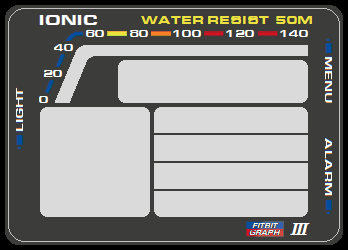
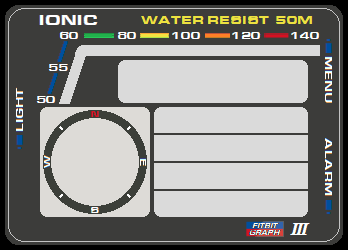
Completed HeartRate Monitor and WIP Compass

Changed region(s): [[0.0862, 0.112, 0.9195, 0.42], [0.1149, 0.42, 0.431, 0.868]]

diff --git a/app/index.js b/app/index.js
@@ -3,10 +3,15 @@ import clock from "clock";
 import document from "document";
 import * as fs from "fs";
 import * as messaging from "messaging";
-import { preferences } from "user-settings";
+import { preferences,units } from "user-settings";
 import * as util from "../common/utils";
-import { today, goals } from "user-activity";
-import { units } from "user-settings";
+//import * as gpscompass from "../common/gpscompass";
+import { today } from "user-activity";
+import { HeartRateSensor } from "heart-rate";
+import { display } from "display";
+import { location } from "geolocation";
+import { BodyPresenceSensor } from "body-presence";
+import { geolocation } from "geolocation";
 
 const SETTINGS_TYPE = "cbor";
 const SETTINGS_FILE = "settings.cbor";
@@ -20,11 +25,11 @@ let mySteps2 = document.getElementById("mySteps2");
 let mySteps3 = document.getElementById("mySteps3");
 let mySteps4 = document.getElementById("mySteps4");
 let mySteps5 = document.getElementById("mySteps5");
-let myMinutes1 = document.getElementById("myMinutes1");
-let myMinutes2 = document.getElementById("myMinutes2");
-let myMinutes3 = document.getElementById("myMinutes3");
-let myMinutes4 = document.getElementById("myMinutes4");
-let myMinutes5 = document.getElementById("myMinutes5");
+let myCalories1 = document.getElementById("myCalories1");
+let myCalories2 = document.getElementById("myCalories2");
+let myCalories3 = document.getElementById("myCalories3");
+let myCalories4 = document.getElementById("myCalories4");
+let myCalories5 = document.getElementById("myCalories5");
 let myDistance1 = document.getElementById("myDistance1");
 let myDistance2 = document.getElementById("myDistance2");
 let myDistance3 = document.getElementById("myDistance3");
@@ -51,16 +56,52 @@ let date2 = document.getElementById("date2");
 let month1 = document.getElementById("month1");
 let month2 = document.getElementById("month2");
 
+// COMPASS
+let coords = [];
+let compass = document.getElementById("compass");
+let compass1 = document.getElementById("compass1");
+let compass2 = document.getElementById("compass2");
+let compass3 = document.getElementById("compass3");
+
+// HEART RATE MONITOR
+if (HeartRateSensor) {
+  const hrm = new HeartRateSensor({ frequency: 1 });
+  const body = new BodyPresenceSensor();
+  hrm.addEventListener("reading", () => {
+      setHeartRate(hrm.heartRate);
+  });
+    display.addEventListener("change", () => {
+    // Automatically stop the sensor when the screen is off to conserve battery
+    display.on ? ( hrm.start() ) : ( setHeartRate(50), hrm.stop(), document.getElementById("bpm50").style.display = "none" );
+  });
+  body.addEventListener("reading", () => {
+    body.present ? ( hrm.start() ) : setHeartRate(50), hrm.stop(), document.getElementById("bpm50").style.display = "none";
+    //body.present ? console.log("On") : console.log("Off");
+  });
+  body.start();
+  hrm.start();
+}
+
 clock.granularity = "seconds";
 
 clock.ontick = evt => {
   let d = evt.date;
 
+  // COMPASS
+  if(d.getSeconds() % 10 === 1){
+    //console.log('test');
+    setCompass(coords);
+    //coords.push({latitude:5,longitude:6});
+    //console.log(JSON.stringify(coords));
+ 
+  }
+
+  
   // SENSORS 
-  //getActiveMinutes();
   getDistance();
   getSteps();
-  
+  getCalories();
+
   // DATE
   setDate(d.getDate());
   
@@ -111,14 +152,26 @@ function applyTheme(background, foreground) {
   settings.foreground = foreground;
 }
 
+function getCalories() {
+  if (me.permissions.granted("access_activity")) {
+    let calories = today.adjusted.calories || 0;
+    calories = util.zero5Pad(calories);
+  }else{
+    let calories = "00000";
+  }
+  drawDigit(calories.toString().substring(0,1), myCalories1);
+  drawDigit(calories.toString().substring(1,2), myCalories2);
+  drawDigit(calories.toString().substring(2,3), myCalories3);
+  drawDigit(calories.toString().substring(3,4), myCalories4);
+  drawDigit(calories.toString().substring(4,5), myCalories5);
+}
+
 function getSteps() {
   if (me.permissions.granted("access_activity")) {
     let steps = today.adjusted.steps || 0;
     steps = util.zero5Pad(steps);
-    //console.log(`${steps} Steps`);
   }else{
     let steps = "00000";
-    //console.log(`${steps} Steps`);
   }
   drawDigit(steps.toString().substring(0,1), mySteps1);
   drawDigit(steps.toString().substring(1,2), mySteps2);
@@ -152,6 +205,57 @@ function setSeparator(val) {
   separator.style.display = (val % 2 === 0 ? "inline" : "none");
 }
 
+// Converts from degrees to radians.
+function toRadians(degrees) {
+  return degrees * Math.PI / 180;
+};
+ 
+// Converts from radians to degrees.
+function toDegrees(radians) {
+  return radians * 180 / Math.PI;
+}
+
+
+function bearing(startLat, startLng, destLat, destLng){
+  startLat = toRadians(startLat);
+  startLng = toRadians(startLng);
+  destLat = toRadians(destLat);
+  destLng = toRadians(destLng);
+  let y = Math.sin(destLng - startLng) * Math.cos(destLat);
+  let x = Math.cos(startLat) * Math.sin(destLat) - Math.sin(startLat) * Math.cos(destLat) * Math.cos(destLng - startLng);
+  let brng = Math.atan2(y, x);
+  brng = toDegrees(brng);
+  return (brng + 360) % 360;
+}
+
+async function setCompass(coords) {
+
+  let position1 = new Promise((resolve, reject) => {
+    setTimeout(() => geolocation.getCurrentPosition(resolve, reject), 1000)
+  });
+  let position2 = new Promise((resolve, reject) => {
+    setTimeout(() => geolocation.getCurrentPosition(resolve, reject), 6000)
+  });
+
+  let result1 = await position1; // wait until the promise resolves (*)
+  //let result2 = await position2; // wait until the promise resolves (*)
+  //console.log(result1.coords.longitude); // "done!"
+  //let brng = bearing(result1.coords.latitude,result1.coords.longitude,result2.coords.latitude,result2.coords.longitude); // "done!"
+  
+  let latitude = result1.coords.latitude;
+  let longitude = result1.coords.longitude;
+  coords.push({latitude:latitude,longitude:longitude});
+
+  //compass.groupTransform.rotate.angle = brng;
+    //brng = util.zero5Pad(brng);
+  //drawDigit(brng.toString().substring(2,3), compass1);
+  //drawDigit(brng.toString().substring(3,4), compass2);
+  //drawDigit(brng.toString().substring(4,5), compass3);
+
+  //resolve coords;
+}
+
+
 function setHours(val) {
   if (val > 9) {
     drawDigit(Math.floor(val / 10), hours1);
@@ -183,6 +287,16 @@ function setDate(val) {
 function setMonth(val) {
   drawDigit(Math.floor(val / 10), month1);
   drawDigit(Math.floor(val % 10), month2);
+}
+
+function setHeartRate(val){
+  let bpmid = 140;
+  val < 50 ? ( document.getElementById("bpmparent").style.display = "none" , val = 50 ):
+  document.getElementById("bpmparent").style.display = "inline";
+  while(bpmid >= 50 && val >= 50){
+    //console.log("calculating HR" + val);
+    bpmid > val ? ( document.getElementById("bpm" + bpmid).style.display = "none", bpmid-- ) : (document.getElementById("bpm" + bpmid).style.display = "inline" , bpmid-- );
+  }
 }
 
 function setDay(val) {

diff --git a/common/gpscompass.js b/common/gpscompass.js
@@ -1,0 +1,43 @@
+import { geolocation } from "geolocation";
+import document from "document";
+
+// COMPASS
+let compass = document.getElementById("compass");
+
+// Converts from degrees to radians.
+function toRadians(degrees) {
+  return degrees * Math.PI / 180;
+};
+ 
+// Converts from radians to degrees.
+function toDegrees(radians) {
+  return radians * 180 / Math.PI;
+}
+
+
+function bearing(startLat, startLng, destLat, destLng){
+  startLat = toRadians(startLat);
+  startLng = toRadians(startLng);
+  destLat = toRadians(destLat);
+  destLng = toRadians(destLng);
+  let y = Math.sin(destLng - startLng) * Math.cos(destLat);
+  let x = Math.cos(startLat) * Math.sin(destLat) - Math.sin(startLat) * Math.cos(destLat) * Math.cos(destLng - startLng);
+  let brng = Math.atan2(y, x);
+  brng = toDegrees(brng);
+  return (brng + 360) % 360;
+}
+
+export async function setCompass(brng) {
+
+  let position1 = new Promise((resolve, reject) => {
+    setTimeout(() => geolocation.getCurrentPosition(resolve, reject), 1000)
+  });
+  let position2 = new Promise((resolve, reject) => {
+    setTimeout(() => geolocation.getCurrentPosition(resolve, reject), 6000)
+  });
+
+  let result1 = await position1; // wait until the promise resolves (*)
+  let result2 = await position2; // wait until the promise resolves (*)
+  console.log(result1.coords.longitude); // "done!"
+  compass.groupTransform.rotate.angle =   bearing(result1.coords.latitude,result1.coords.longitude,result2.coords.latitude,result2.coords.longitude); // "done!"
+}
